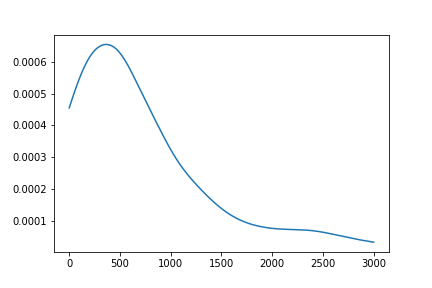
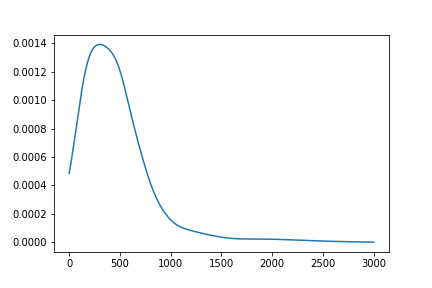
corrections

diff --git a/ps3/ps3.py b/ps3/ps3.py
@@ -5,7 +5,7 @@ import matplotlib.pyplot as plt
 
 # 1 Data --- -------------------------------------------------------------------
 # Prep variables
-df = pd.read_csv("data/.csv", skiprows = [0])
+df = pd.read_csv("data/ps3.csv", skiprows = [0])
 df['value']=(df['EstDate Min']+df['EstDate Max'])/2
 df['realisation']=df['realisation in final auAtion']
 df['win'] = (df['bid']>=df['realisation'])& (df['rank']==1)
@@ -52,7 +52,7 @@ table2.columns = ['Target mean', 'Target SD',
     'Bid mean', 'Bid SD', '% lots won',
     '# lots']
 table2.index.name ="# Bidders"
-table2.to_latex("/tables/table2.tex",  float_format="%.2f" )
+table2.to_latex("tables/table2.tex",  float_format="%.2f" )
 
 # Remove auctions with more than 2 ring-members bidding
 df2 = df.loc[df['num_bidders']<=2]
@@ -85,12 +85,12 @@ plt.bar(ind + width, small['Net  Payment'], width, \
     label='Target price below $10,000')
 plt.xticks(ind + width / 2, labs)
 plt.legend(loc='best')
-plt.savefig('/figs/fig1.png')
+plt.savefig('figs/fig1.png')
 plt.close()
 
 # 3 Structural Analysis --------------------------------------------------------
-#d = pd.read_csv("data/.csv", skiprows = [0])
-d = pd.read_csv("/data/.csv", skiprows = [0])
+#d = pd.read_csv("data/ps3.csv", skiprows = [0])
+d = pd.read_csv("data/ps3.csv", skiprows = [0])
 d['win'] = (d['bid']>=d['realisation in final auAtion'])& (d['rank']==1)
 d['num_bidders'] = d.groupby(['lot','date'])['bidder'].transform('count')
 d = d.loc[d['num_bidders'] == 2]
@@ -181,7 +181,7 @@ def gj(df,j):
 
 # illustration
 plt.plot(grid, gj(d,1).evaluate(grid))
-plt.savefig('/figs/nonpara-bid.png')
+plt.savefig('figs/nonpara-bid.png')
 plt.close()
 
 # 2. participation probability f
@@ -205,7 +205,7 @@ def Gnotj(df,α,j,grid):
 
 # illustration
 plt.plot(grid,gnotj(d,α,1,grid))
-plt.savefig('/figs/pdfgdemo.png')
+plt.savefig('figs/pdfgdemo.png')
 plt.close()
 
 plt.plot(grid,Gnotj(d,α,1,grid))
@@ -215,29 +215,18 @@ plt.close()
 
 # 4. Value function
 def val(df,α,j,grid,hr_cdf,hr):
-    H = hr_cdf
-    h = hr
-    g = gnotj(df,α,j,grid)
-    G = Gnotj(df,α,j,grid)
+    h = hr/np.sum(hr)
+    H = np.cumsum(h)
+    g = gnotj(d,α,j,grid)
+    g = g/np.sum(g)
+    G = np.cumsum(g)
     num = .5*H*(1-G)
     den = h*G +H*g
-    return grid - (num/den)
+    vmod = grid - (num/den)
+    return vmod
 
 vmod = val(d,α,1,grid,hr_cdf,hr)
 plt.plot(vmod[700:4000],grid[700:4000])
 plt.plot(grid[700:4000],grid[700:4000])
-plt.savefig('figs/bid-value.png')
+plt.savefig('figs/fig2.png')
 plt.close()
-
-
-# # trouble shooting
-# h = hr/np.sum(hr)
-# H = np.cumsum(h)
-# g = gnotj(d,α,1,grid)
-# g = g/np.sum(g)
-# G = np.cumsum(g)
-# num = .5*H*(1-G)
-# den = h*G +H*g
-# vmod = grid - (num/den)
-# plt.plot(vmod[700:4000],grid[700:4000])
-# plt.plot(grid[700:4000],grid[700:4000])
